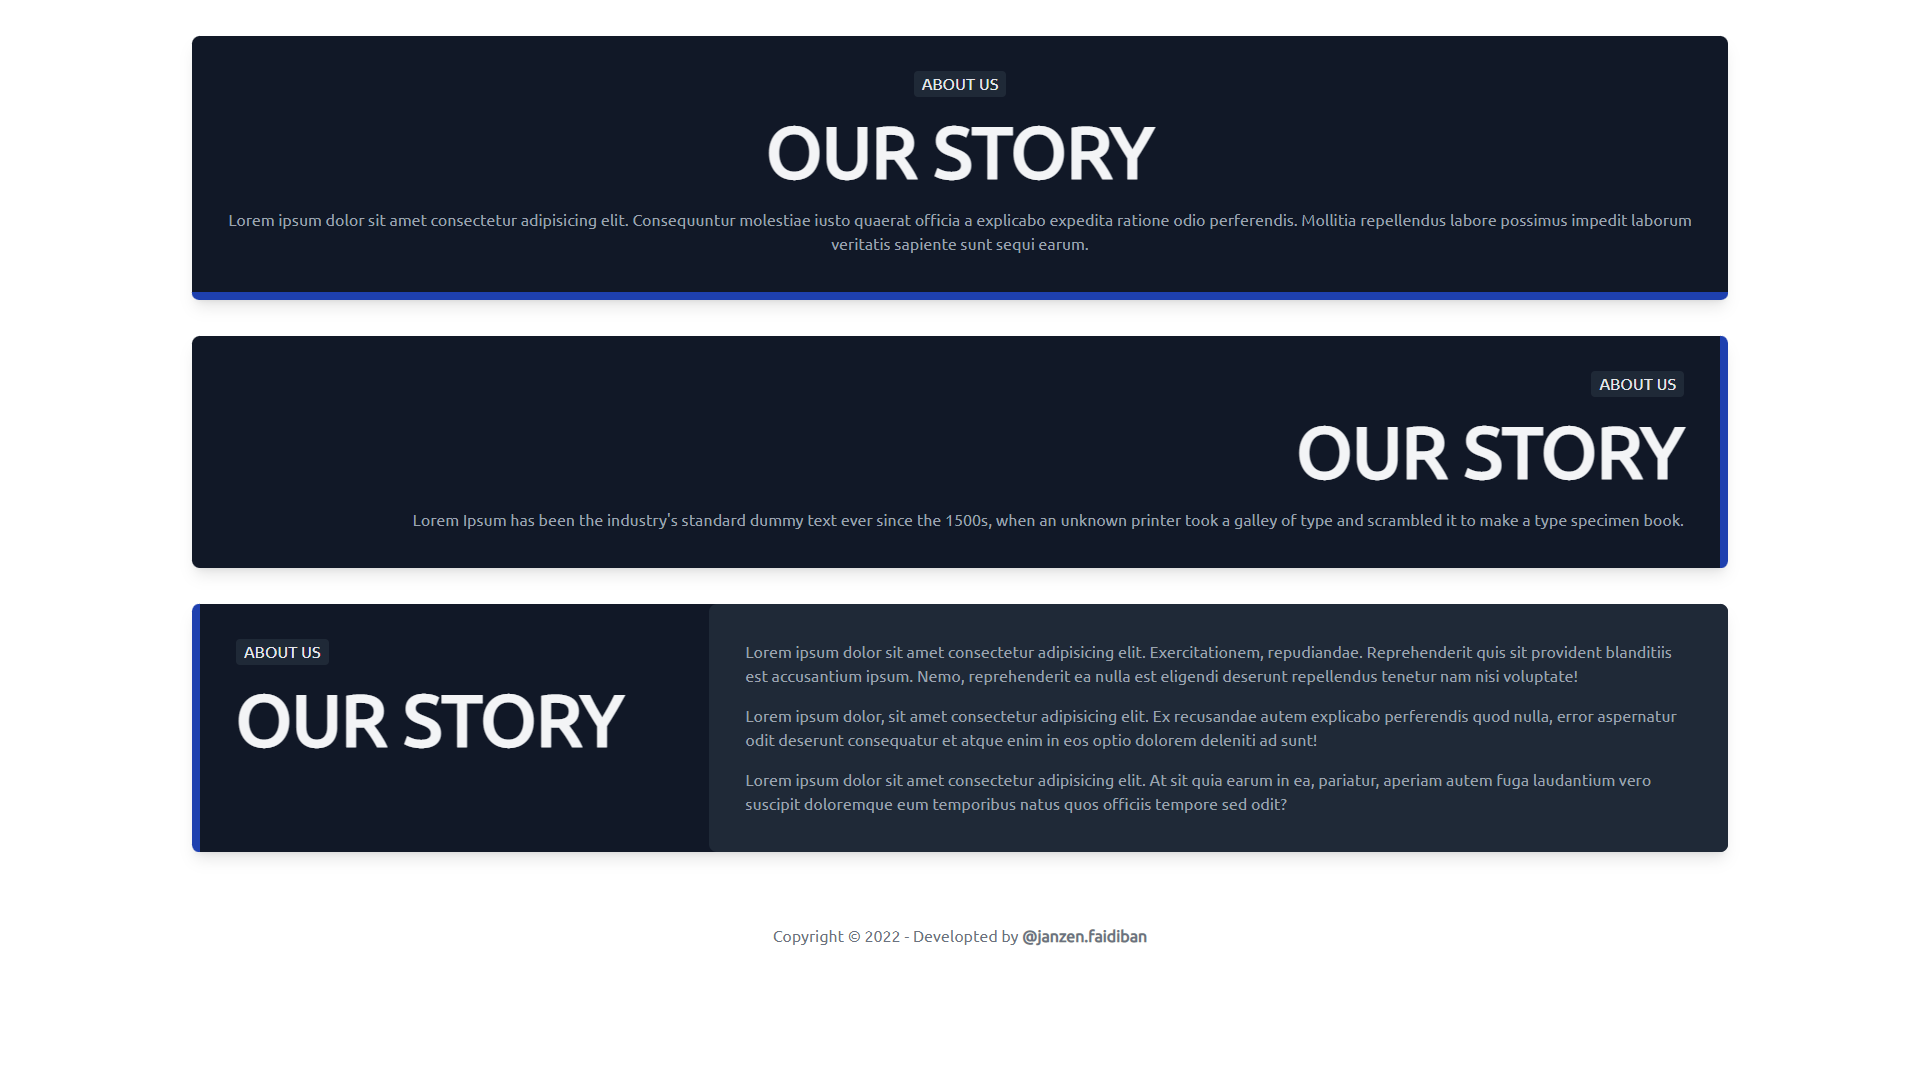
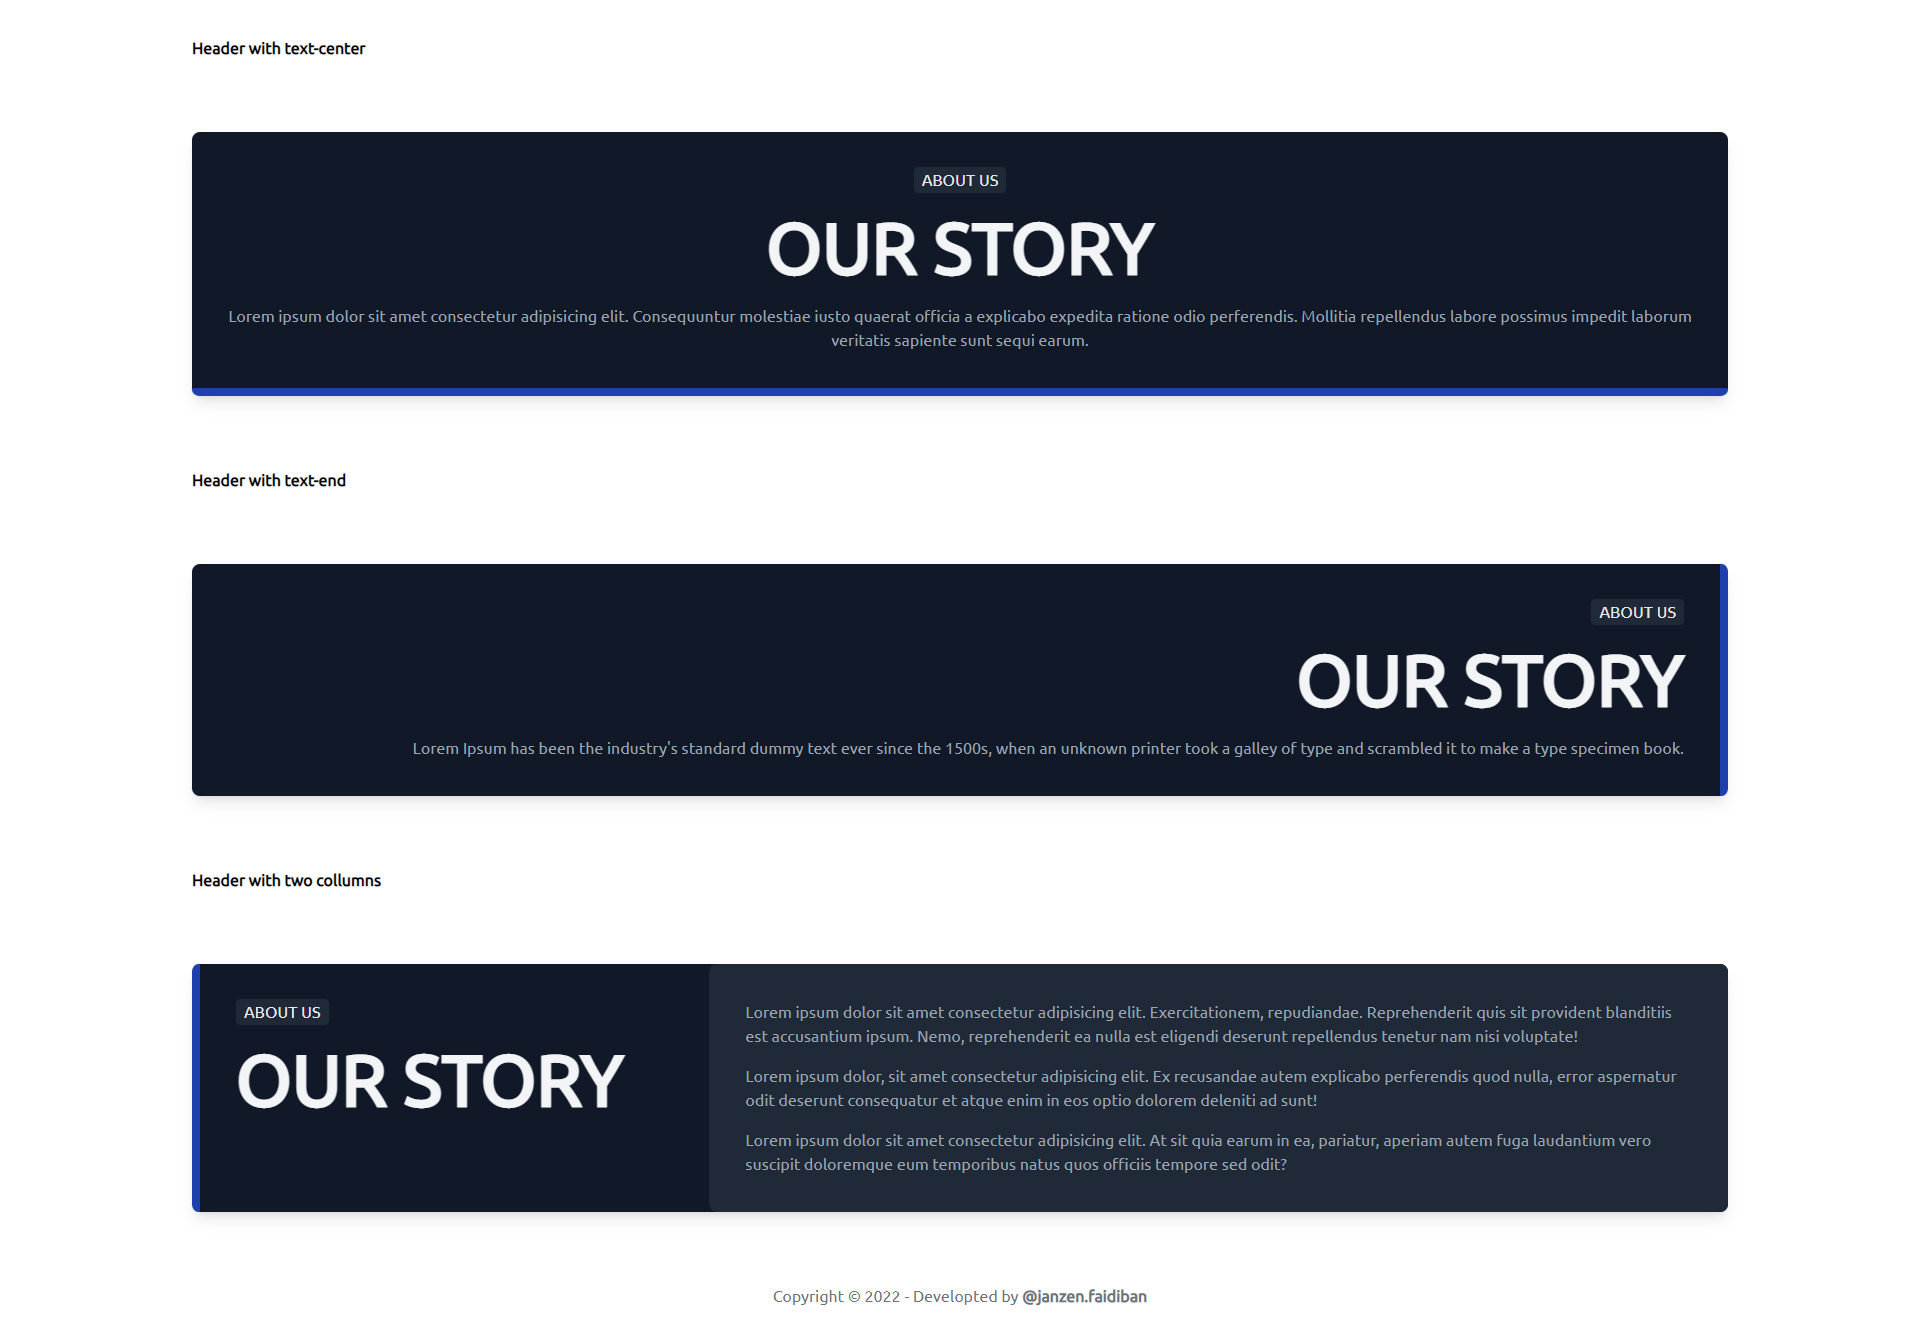
title update

diff --git a/header.html b/header.html
@@ -20,10 +20,12 @@
 <body>
 
     <!-- .container start -->
-    <div class="container mx-auto text-center">
+    <div class="container mx-auto">
+
+        <p class="py-9 font-bold">Header with text-center</p>
 
         <!-- header start -->
-        <header class="bg-gray-900 text-white p-9 my-9 rounded-lg shadow-lg border-b-8 border-blue-800 ">
+        <header class="bg-gray-900 text-white text-center p-9 my-9 rounded-lg shadow-lg border-b-8 border-blue-800 ">
 
             <span class="font-medium text-gray-200 uppercase px-2 py-1 bg-gray-800 rounded">About Us</span>
 
@@ -38,10 +40,12 @@
     <!-- .container end -->
 
     <!-- .container start -->
-    <div class="container mx-auto text-end">
+    <div class="container mx-auto">
+
+        <p class="py-9 font-bold">Header with text-end</p>
 
         <!-- header start -->
-        <header class="bg-gray-900 text-white p-9 my-9 rounded-lg shadow-lg border-r-8 border-blue-800 ">
+        <header class="bg-gray-900 text-end text-white p-9 my-9 rounded-lg shadow-lg border-r-8 border-blue-800 ">
 
             <span class="font-medium text-gray-200 uppercase px-2 py-1 bg-gray-800 rounded">About Us</span>
 
@@ -57,6 +61,8 @@
 
     <!-- .container start -->
     <div class="container mx-auto">
+
+        <p class="py-9 font-bold">Header with two collumns</p>
 
         <!-- header start -->
         <header class="lg:flex my-9 bg-gray-900 text-gray-100 rounded-lg shadow-lg border-l-8 border-blue-800 ">
